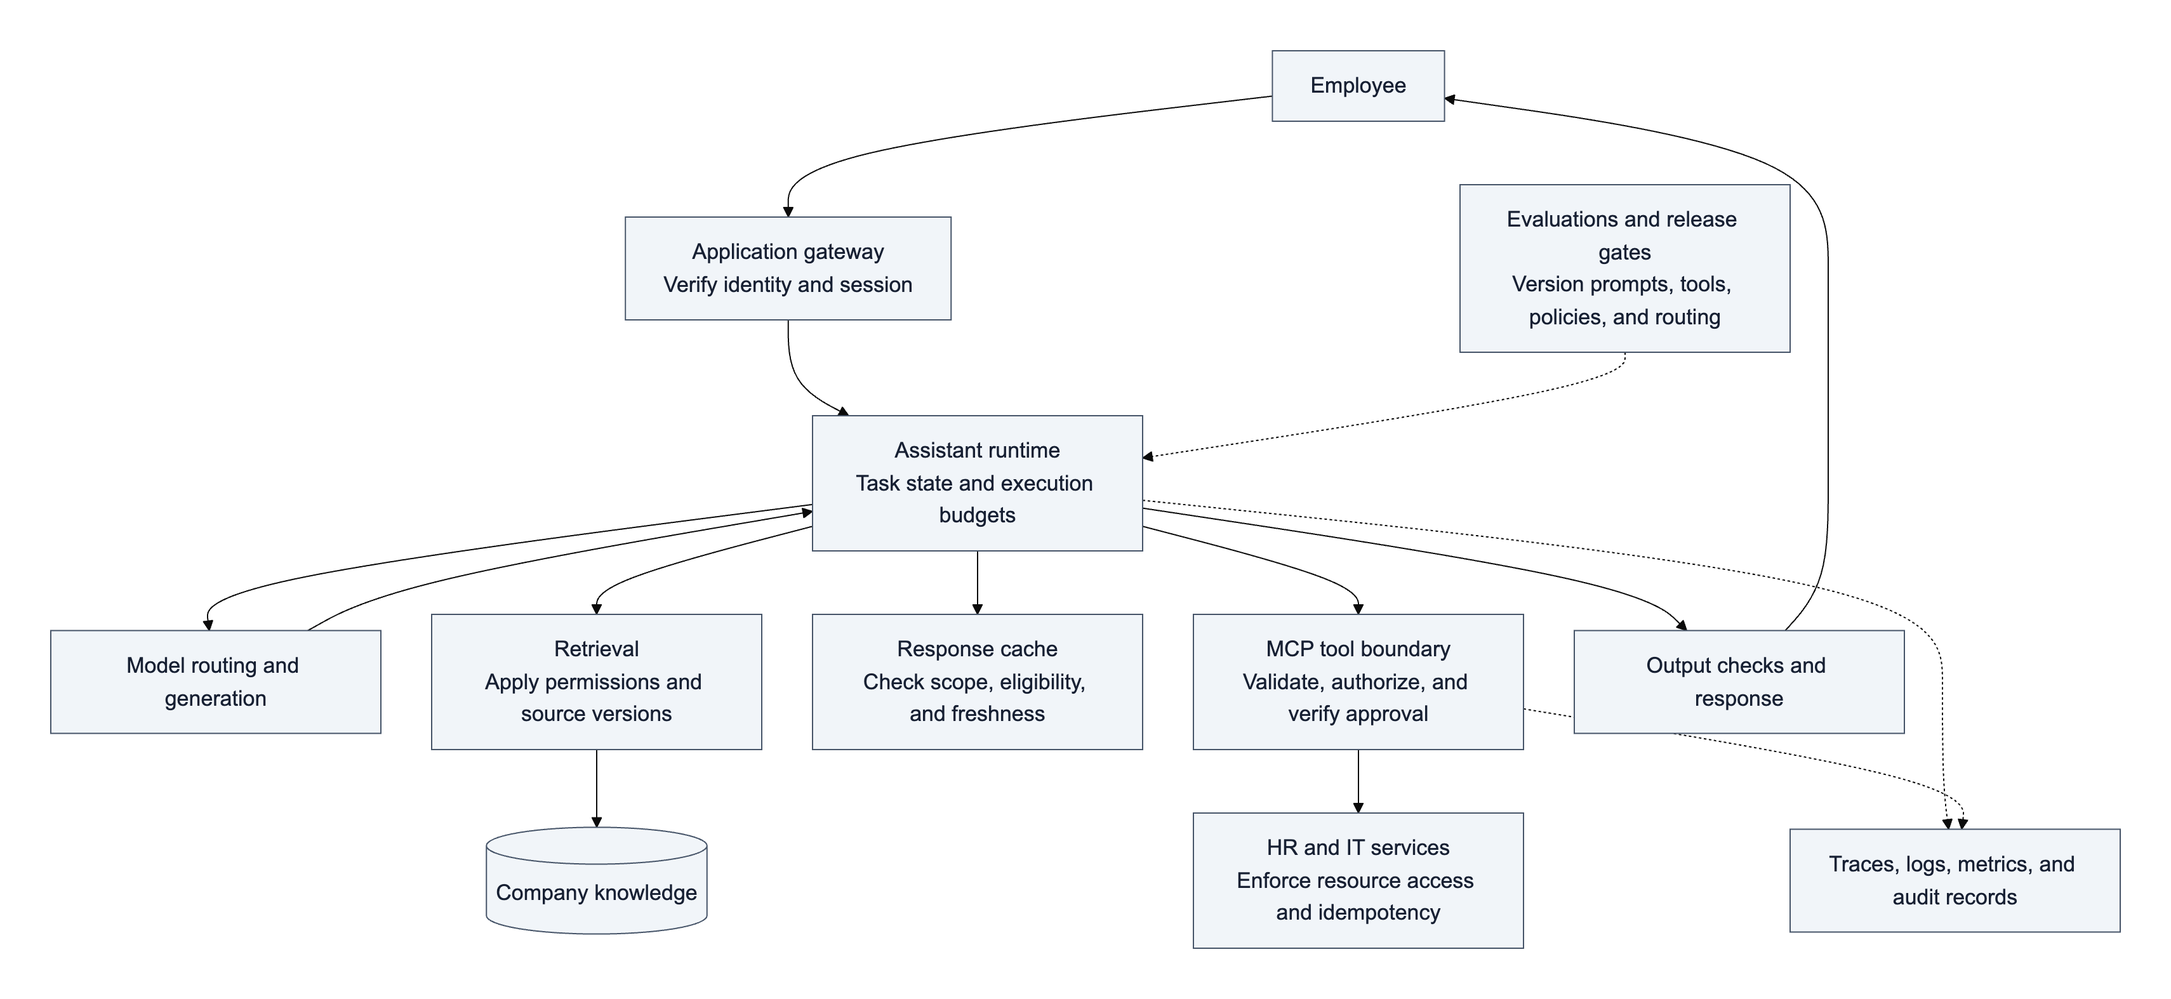
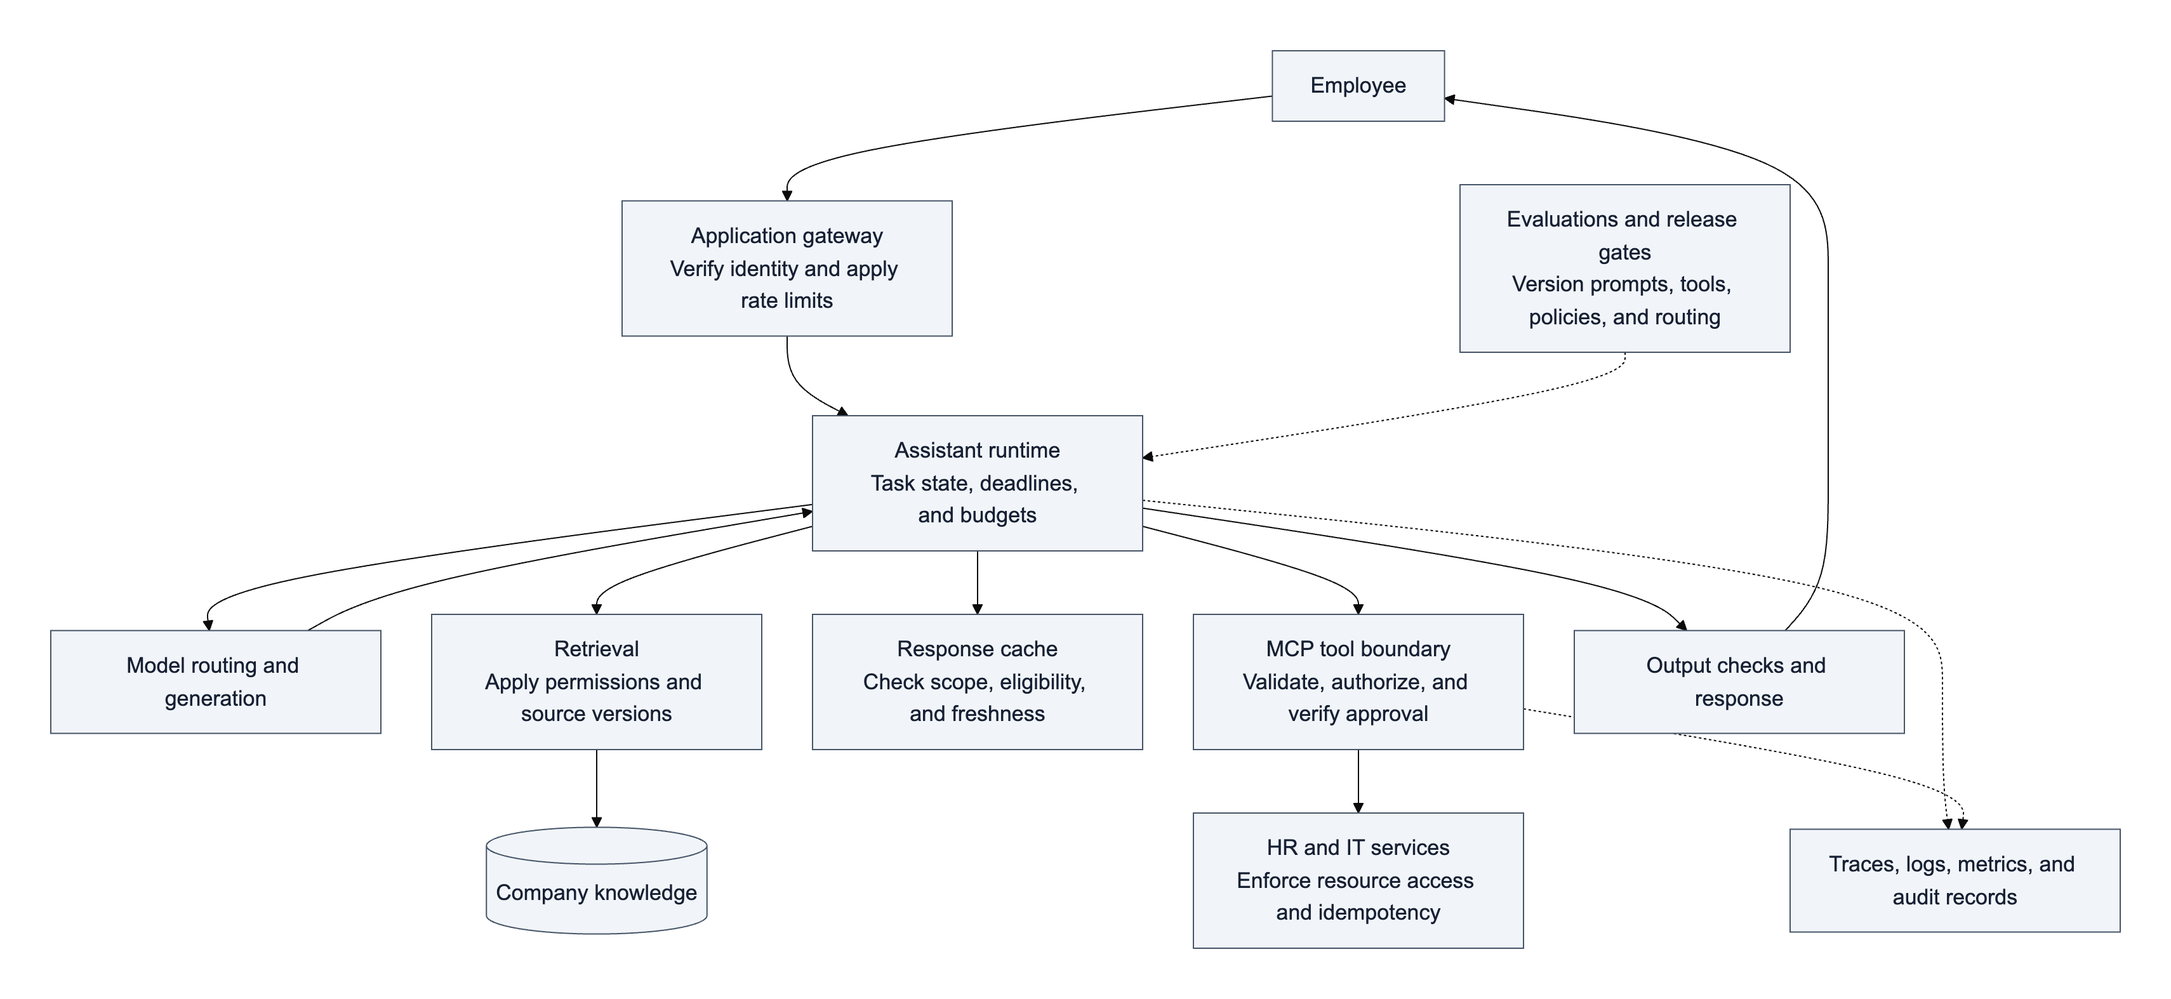
docs: expand enterprise assistant guide with production controls

Changed region(s): [[0.3099, 0.1868, 0.4339, 0.3424], [0.4029, 0.467, 0.4959, 0.5292], [0.4029, 0.1245, 0.4339, 0.1557]]

diff --git a/enterprise-ai-assistant/README.md b/enterprise-ai-assistant/README.md
@@ -1,4 +1,4 @@
-# What It Takes to Build a Company AI Assistant
+# How to Build an Enterprise AI Assistant for Production
 
 ## TL;DR
 
@@ -6,6 +6,7 @@
 - Access control belongs in retrieval, application code, and downstream systems. The model's instructions cannot decide who may read a salary record or submit a request.
 - Guardrails help detect misuse, but they do not make prompt injection disappear. Authorization and approval checks must hold even when the model follows an attacker’s instructions.
 - Caching and model routing can change operating costs, provided they preserve user permissions, freshness, and task quality.
+- Production traffic needs rate limits, concurrency limits, task budgets, and deadlines. Retries must be bounded and safe for the operation being repeated.
 - Traces, evaluations, versioned configuration, and release gates turn a collection of integrations into a system a team can operate. A prompt change belongs in that release process too.
 
 Your company wants an assistant that answers policy questions, submits leave requests, and opens IT tickets. You connect a chat interface to an LLM API and put it in front of a few employees.
@@ -18,7 +19,7 @@ Then someone asks about the leave policy.
 
 The assistant returns an answer with the confidence of an HR handbook and the accuracy of a guess. It has described a plausible workplace policy, including benefits your company has never offered.
 
-The API connection works. The company knowledge is missing. Fixing that gap starts a sequence of engineering decisions, each exposed by a new thing employees expect the assistant to do.
+The API connection works. The company knowledge is missing. Taking an enterprise AI assistant into production starts a sequence of engineering decisions, each exposed by a new thing employees expect it to do.
 
 ## A system prompt gives the assistant a role
 
@@ -136,19 +137,55 @@ Use shared caching for answers whose content and access are genuinely shared. Tr
 
 The goal is cost per completed task within the required quality and access boundaries. Cache hit rate alone cannot establish that the optimization is working.
 
-The bill becomes easier to explain. Then an employee reports that the assistant cited a policy that no longer applies, and the team needs to find the path that produced the answer.
+The bill becomes easier to explain. Then Monday morning arrives, employees open the assistant together, and the HR service starts taking longer to respond.
+
+## Rate limiting and timeouts keep the assistant available
+
+The pilot spread requests across the day. The company launch concentrates them into the same few minutes. Some employees repeat a question because the first answer has not arrived. A slow HR call holds a connection open, and retries add more work to the queue.
+
+You add rate limiting before expensive work begins. An edge limit can reduce unauthenticated abuse; after authentication, limits keyed by verified employee and tenant identities control admitted work. A shared provider budget accounts for model capacity used across the application. A name or organization supplied in the prompt cannot choose which quota is charged.
+
+Counting chat messages is insufficient. One message might produce a short answer; another might trigger several model turns, searches, and tool calls. Apply limits to the resources that can run out, including model requests, tokens, and active downstream operations. Check the provider's actual quota rules rather than assuming every model has the same requests-per-minute allowance. [Model throughput planning](https://docs.aws.amazon.com/bedrock/latest/userguide/scaling-throughput-best-practices.html)
+
+Rate limits control how much work starts over time. Concurrency limits control how much remains active at once. You need both: a request rate that worked yesterday can exhaust connections today if the HR system becomes slower. Give HR calls their own concurrency allowance so they cannot occupy every worker needed for IT requests or policy answers.
+
+The controls serve different purposes:
+
+| Control | Where it applies | What it protects |
+| --- | --- | --- |
+| Employee and tenant rate limits | Authenticated request admission | Fair access when one caller or team sends a burst |
+| Model request and token budgets | Before each generation call | Shared provider capacity and the task's spending allowance |
+| Tool concurrency limits | Each downstream integration | Connections and worker capacity when a dependency slows |
+| Queue size and waiting deadline | Work waiting for execution | Memory and the employee's remaining response time |
+| Step and tool-call budgets | The agent's execution loop | Repeated planning, retries, or calls that stop making progress |
+
+Keep queues bounded. When capacity is exhausted, reject or defer work explicitly instead of accepting requests that cannot finish within their deadline. At an HTTP admission boundary, `429 Too Many Requests` can explain that a caller has exceeded a rate limit, with `Retry-After` where a retry delay is known. A tool-level failure also needs a structured outcome the host can handle; do not depend on the model deciding to wait. [HTTP rate-limit responses](https://www.rfc-editor.org/rfc/rfc6585#section-4)
+
+If the assistant runs across several replicas, per-process counters do not enforce one application-wide quota. Coordinate admission through a gateway or shared limiter with atomic accounting. Define what happens if that limiter is unavailable. Keep interactive requests separate from background jobs where they compete for the same capacity, and pause failing integrations when continued calls cannot help. This is load shedding: declining some work so the service can keep completing the work it can support. [Handling overload](https://sre.google/sre-book/handling-overload/)
+
+Give the whole task a deadline, then allocate dependency timeouts within the remaining time. Include queueing, connection setup, model generation, and tool calls. A new retry does not reset the employee's deadline. Propagate cancellation where supported and stop scheduling new work when the task expires. [Deadline propagation](https://grpc.io/docs/guides/deadlines/)
+
+Also cap model turns, tool calls, and token use so an agent cannot keep trying indefinitely. Check those budgets in the host before scheduling each new step, including a retry or a fallback to another model.
+
+A retry is appropriate only when another attempt may help and repeating the operation is safe. Bound the attempts, space them with exponential backoff and jitter, and honor an applicable `Retry-After` response. Assign retry responsibility to one layer so host, tool client, and SDK retries do not multiply each other. Permission denials and invalid arguments need correction rather than another identical attempt. [Timeouts and retry behavior](https://aws.amazon.com/builders-library/timeouts-retries-and-backoff-with-jitter/)
+
+For a leave submission, a timeout does not prove the HR system rejected the request. It may have stored the record before the response was lost. Use the same operation identifier when reconciling or safely retrying that submission; the backend must prevent a second record. Until its status is known, tell the employee that confirmation is pending. Do not invite another submission with a new identifier.
+
+Choose thresholds through load tests that include bursts, slow dependencies, and realistic task lengths. Define service-level objectives for response time and completed workflows, then measure admitted, rejected, timed-out, and completed requests separately. Otherwise, fast rejections can make the latency chart look healthy while employees cannot get work done.
+
+The assistant now has a defined response when demand exceeds capacity. Then an employee reports that it cited a policy that no longer applies, and the team needs to find the path that produced the answer.
 
 ## Observability explains the path to an answer
 
 An HTTP success code says little about whether the assistant used the right policy or completed the intended operation. You need a record of the request as it moved through routing, retrieval, generation, and tools.
 
-Give the request a correlation identifier. Record the application and prompt versions, selected model, retrieved source identifiers and versions, tool names, authorization outcomes, durations, retries, and final workflow status. Add provider usage where available so the cost of the complete task can be reconstructed.
+Give the request a correlation identifier. Record the application and prompt versions, selected model, retrieved source identifiers and versions, tool names, authorization outcomes, durations, retries, and final workflow status. Add provider usage where available so the cost of the complete task can be reconstructed. Include queue wait, active tool calls, throttling, deadline expiry, and exhausted task budgets to distinguish demand from dependency failure.
 
 This makes failures more specific. A policy answer may have used an old document, a stale cache entry, or an incorrect interpretation of the current policy. Those require different fixes. A slow leave request may be waiting on the HR service rather than the model.
 
 Full prompt and response logging is a separate data decision. Employee questions can contain health information, compensation details, or credentials pasted by mistake. Collect the diagnostic metadata needed for the task, redact or restrict content where necessary, and set access and retention rules for the logs themselves. [OWASP logging guidance](https://cheatsheetseries.owasp.org/cheatsheets/Logging_Cheat_Sheet.html)
 
-Keep request identifiers and detailed records in logs or traces. Metrics should summarize durations, failures, resource pressure, and cost without creating a new time series for every employee interaction. The [Code Mode and Grafana article](../code-mode-grafana/README.md) shows how execution measurements can be examined alongside tool activity.
+Keep request identifiers and detailed records in logs or traces. Metrics should summarize durations, failures, resource pressure, and cost without creating a new time series for every employee interaction. A Grafana dashboard can place request rate, rejection rate, queue wait, active calls, latency percentiles, and workflow completion beside one another. That makes a traffic burst distinguishable from a slow HR dependency. The [Code Mode and Grafana article](../code-mode-grafana/README.md) shows how execution measurements can be examined alongside tool activity.
 
 Now the team can investigate a bad answer. It also needs a way to catch a regression before employees encounter it.
 
@@ -168,6 +205,9 @@ For the employee assistant, the collection should include situations such as the
 | Employee approves one leave request | The executed operation matches the confirmed employee, dates, and other parameters |
 | HR accepts a request but the response is lost | A retry does not create a duplicate leave record |
 | A routing rule selects another model | The task still meets the defined behavior, latency, and cost requirements |
+| A tenant exceeds its quota during a traffic burst | Excess work is rejected or deferred according to policy while other tenants retain their allocation |
+| HR calls become slow or time out | Concurrency and queueing stay bounded; the assistant reports an unresolved operation without inventing success |
+| A task reaches its deadline or tool-call budget | The host stops scheduling new work and reports the current outcome |
 
 Use deterministic assertions for facts such as authorized scope, identifiers, recorded side effects, and duplicate prevention. Human review or model-based graders can help assess language and explanation quality, but should not be the only judge of whether a protected operation was allowed.
 
@@ -175,7 +215,7 @@ Version the configuration involved in a release: prompts, model selection, retri
 
 Run relevant evaluations on changes, use a controlled rollout, and retain a way to restore the previous configuration. Offline results do not cover every future input; production feedback should supply new cases to test.
 
-![An employee assistant runtime coordinates permitted knowledge, authorized tools, model routing, scoped caching, and output checks, with telemetry and evaluated configuration releases](assets/assistant-architecture.png)
+![An enterprise AI assistant applies identity and rate limits at admission, task deadlines and budgets in its runtime, and authorization at its tools, with telemetry and evaluated releases](assets/assistant-architecture.png)
 
 [Diagram source](assets/assistant-architecture.mmd) · [SVG](assets/assistant-architecture.svg)
 
@@ -228,6 +268,10 @@ Notice that the model does not supply the caller's identity, declare its own rol
 
 Group HR, IT, and communication tools according to their access policies, and test them in NitroStudio or an MCP client under the roles that will use them. Check both permitted and denied operations. Tool discovery can help a client find capabilities, but every call still needs enforcement at execution time.
 
+NitroStack's `@RateLimit` decorator adds a call-count limit to an individual tool. Its options include `requests`, `window`, `key`, and `storage`; the key can use authenticated context to scope the counter. The default uses the authenticated subject, or a shared `anonymous` key when no authenticated subject is present. Set a key that includes verified tenant and caller identity when those scopes are needed. Counters are also namespaced by tool, so a tool limit does not establish one quota across the whole assistant. [NitroStack rate limiting](https://docs.nitrostack.ai/docs/sdk/rate-limiting), [rate-limit keys](https://docs.nitrostack.ai/docs/sdk/rate-limiting/keys)
+
+The default storage is in memory within one server process. For a quota shared across replicas, supply a shared `RateLimitStorage` adapter and make its increment and window expiry atomic. Keep gateway admission, provider token budgets, and downstream concurrency controls at the layers that can coordinate those resources. A tool decorator counts calls; it does not replace those controls. [Rate-limit storage](https://docs.nitrostack.ai/docs/sdk/rate-limiting/storage)
+
 Leave company knowledge, cache eligibility, model routing, and evaluation in the services that own those decisions. NitroStack provides the tool boundary within that architecture; the application team connects it to the identity provider, policy engine, approval store, and business systems.
 
 ## Frequently asked questions
@@ -264,10 +308,22 @@ No. A semantic response cache returns a previously generated answer for a suffic
 
 Evaluate candidates on the actual task categories, including tool selection, schema adherence, source use, and completion outcomes. Measure cost per successful task with retries and fallbacks included. Keep the same access and approval controls regardless of which model is selected.
 
+### Where should we apply rate limiting to an AI assistant?
+
+Limit incoming traffic at the gateway, apply employee and tenant quotas using verified identity, and enforce provider request or token budgets before generation. Add tool limits around expensive integrations. If the application has several replicas, coordinate any shared quota across them. One limit on chat messages cannot account for every resource used by an agent task.
+
+### Why do we need concurrency limits as well as rate limits?
+
+A rate limit controls arrivals over a period; concurrency limits control active work. When a dependency slows, the same arrival rate leaves more requests running simultaneously. Bound active calls and queue waiting so a slow HR integration cannot consume all the capacity needed by other workflows.
+
+### What should happen when a tool call times out?
+
+Distinguish a failed operation from an unknown outcome. A read may be eligible for a bounded retry within the task deadline. A write may already have succeeded, so reconcile it using its operation identifier or retry only through an idempotent backend contract. Report the unresolved state rather than claiming success or encouraging a duplicate submission.
+
 ### Should we log every prompt and tool result?
 
 Collect the metadata needed to reconstruct decisions first. Full content can contain employee or business-sensitive information, so give it an explicit purpose, access policy, redaction strategy, and retention period. Never include credentials or bearer tokens in routine logs.
 
 ### Which changes should trigger evaluations?
 
-Changes to prompts, models, tool contracts, retrieval, routing, cache policy, memory behavior, and authorization can affect the assistant's behavior. Run the relevant tests on each change, including allowed actions, denied actions, approval requirements, and resulting business state. An identity check is useful, but it is only one part of the suite.
+Changes to prompts, models, tool contracts, retrieval, routing, cache policy, memory behavior, and authorization can affect the assistant's behavior. Run the relevant tests on each change, including allowed actions, denied actions, approval requirements, and resulting business state. Changes to rate limits, concurrency, deadlines, and retry policies also need load and failure tests. An identity check is useful, but it is only one part of the suite.

diff --git a/enterprise-ai-assistant/PUBLISHING.md b/enterprise-ai-assistant/PUBLISHING.md
@@ -2,19 +2,19 @@
 
 ## Page title and H1
 
-What It Takes to Build a Company AI Assistant
+How to Build an Enterprise AI Assistant for Production
 
 ## Suggested URL slug
 
-`building-company-ai-assistant`
+`build-enterprise-ai-assistant`
 
 ## Meta description
 
-Build a company AI assistant through prompts, RAG, MCP tools, authorization, guardrails, caching, model routing, observability, and release evaluations.
+Learn how to build an enterprise AI assistant with RAG, MCP tools, access controls, rate limiting, retries, observability, and production evaluations.
 
 ## Article excerpt
 
-An employee assistant begins with an LLM API. Each new request exposes another responsibility: company knowledge, business actions, permissions, cost, and change control. Follow the architecture as it develops, with diagrams, an authorization-boundary example, and FAQs.
+An employee assistant begins with an LLM API. Each new request exposes another responsibility: company knowledge, business actions, permissions, cost, capacity, and change control. Follow its path into production through RAG, MCP tools, rate limiting, timeouts, observability, and evaluations, with diagrams, code, and FAQs.
 
 ## Structure and audience
 
@@ -36,6 +36,8 @@ The diagrams have PNG images for publishing, with SVG and Mermaid sources. Retai
 - The TypeScript example defines an application boundary through injected interfaces. It does not implement OAuth, a policy engine, an approval service, or HR storage. Its adapters must meet the documented contracts.
 - The HR backend owns atomic idempotency, including retries and concurrency. The example does not supply a transaction across services.
 - NitroStack supplies the MCP tool/application layer; the other services remain application integrations.
+- Tool call-count limits, gateway admission, provider token budgets, concurrency, and task deadlines protect different resources. NitroStack's default rate-limit counters are per process; shared quotas require coordinated storage with atomic accounting.
+- A timeout can leave a write outcome unknown. Cancellation and retries do not reverse a completed business operation; preserve operation identifiers and reconcile through the backend contract.
 
 ## Publishing
 

diff --git a/README.md b/README.md
@@ -8,7 +8,7 @@ Each article opens with a TL;DR, explains the subject with diagrams and code, wa
 | --- | --- |
 | [The Business Case for Stateless MCP](stateless-mcp/README.md) | Delivery, operating costs, protocol changes, integrations, and NitroStack configuration |
 | [From tool calls to Code Mode with NitroStack and Grafana](code-mode-grafana/README.md) | Programmatic tool execution, sandboxing, Prometheus metrics, and Grafana dashboards |
-| [What It Takes to Build a Company AI Assistant](enterprise-ai-assistant/README.md) | Prompts, RAG, MCP tools, authorization, guardrails, caching, routing, observability, and evaluations |
+| [How to Build an Enterprise AI Assistant for Production](enterprise-ai-assistant/README.md) | RAG, MCP tools, authorization, rate limiting, concurrency, retries, observability, and evaluations |
 
 Each article includes publishing settings for its title, description, and URL slug: [stateless MCP](stateless-mcp/PUBLISHING.md), [Code Mode with Grafana](code-mode-grafana/PUBLISHING.md), and [the company AI assistant](enterprise-ai-assistant/PUBLISHING.md).
 
